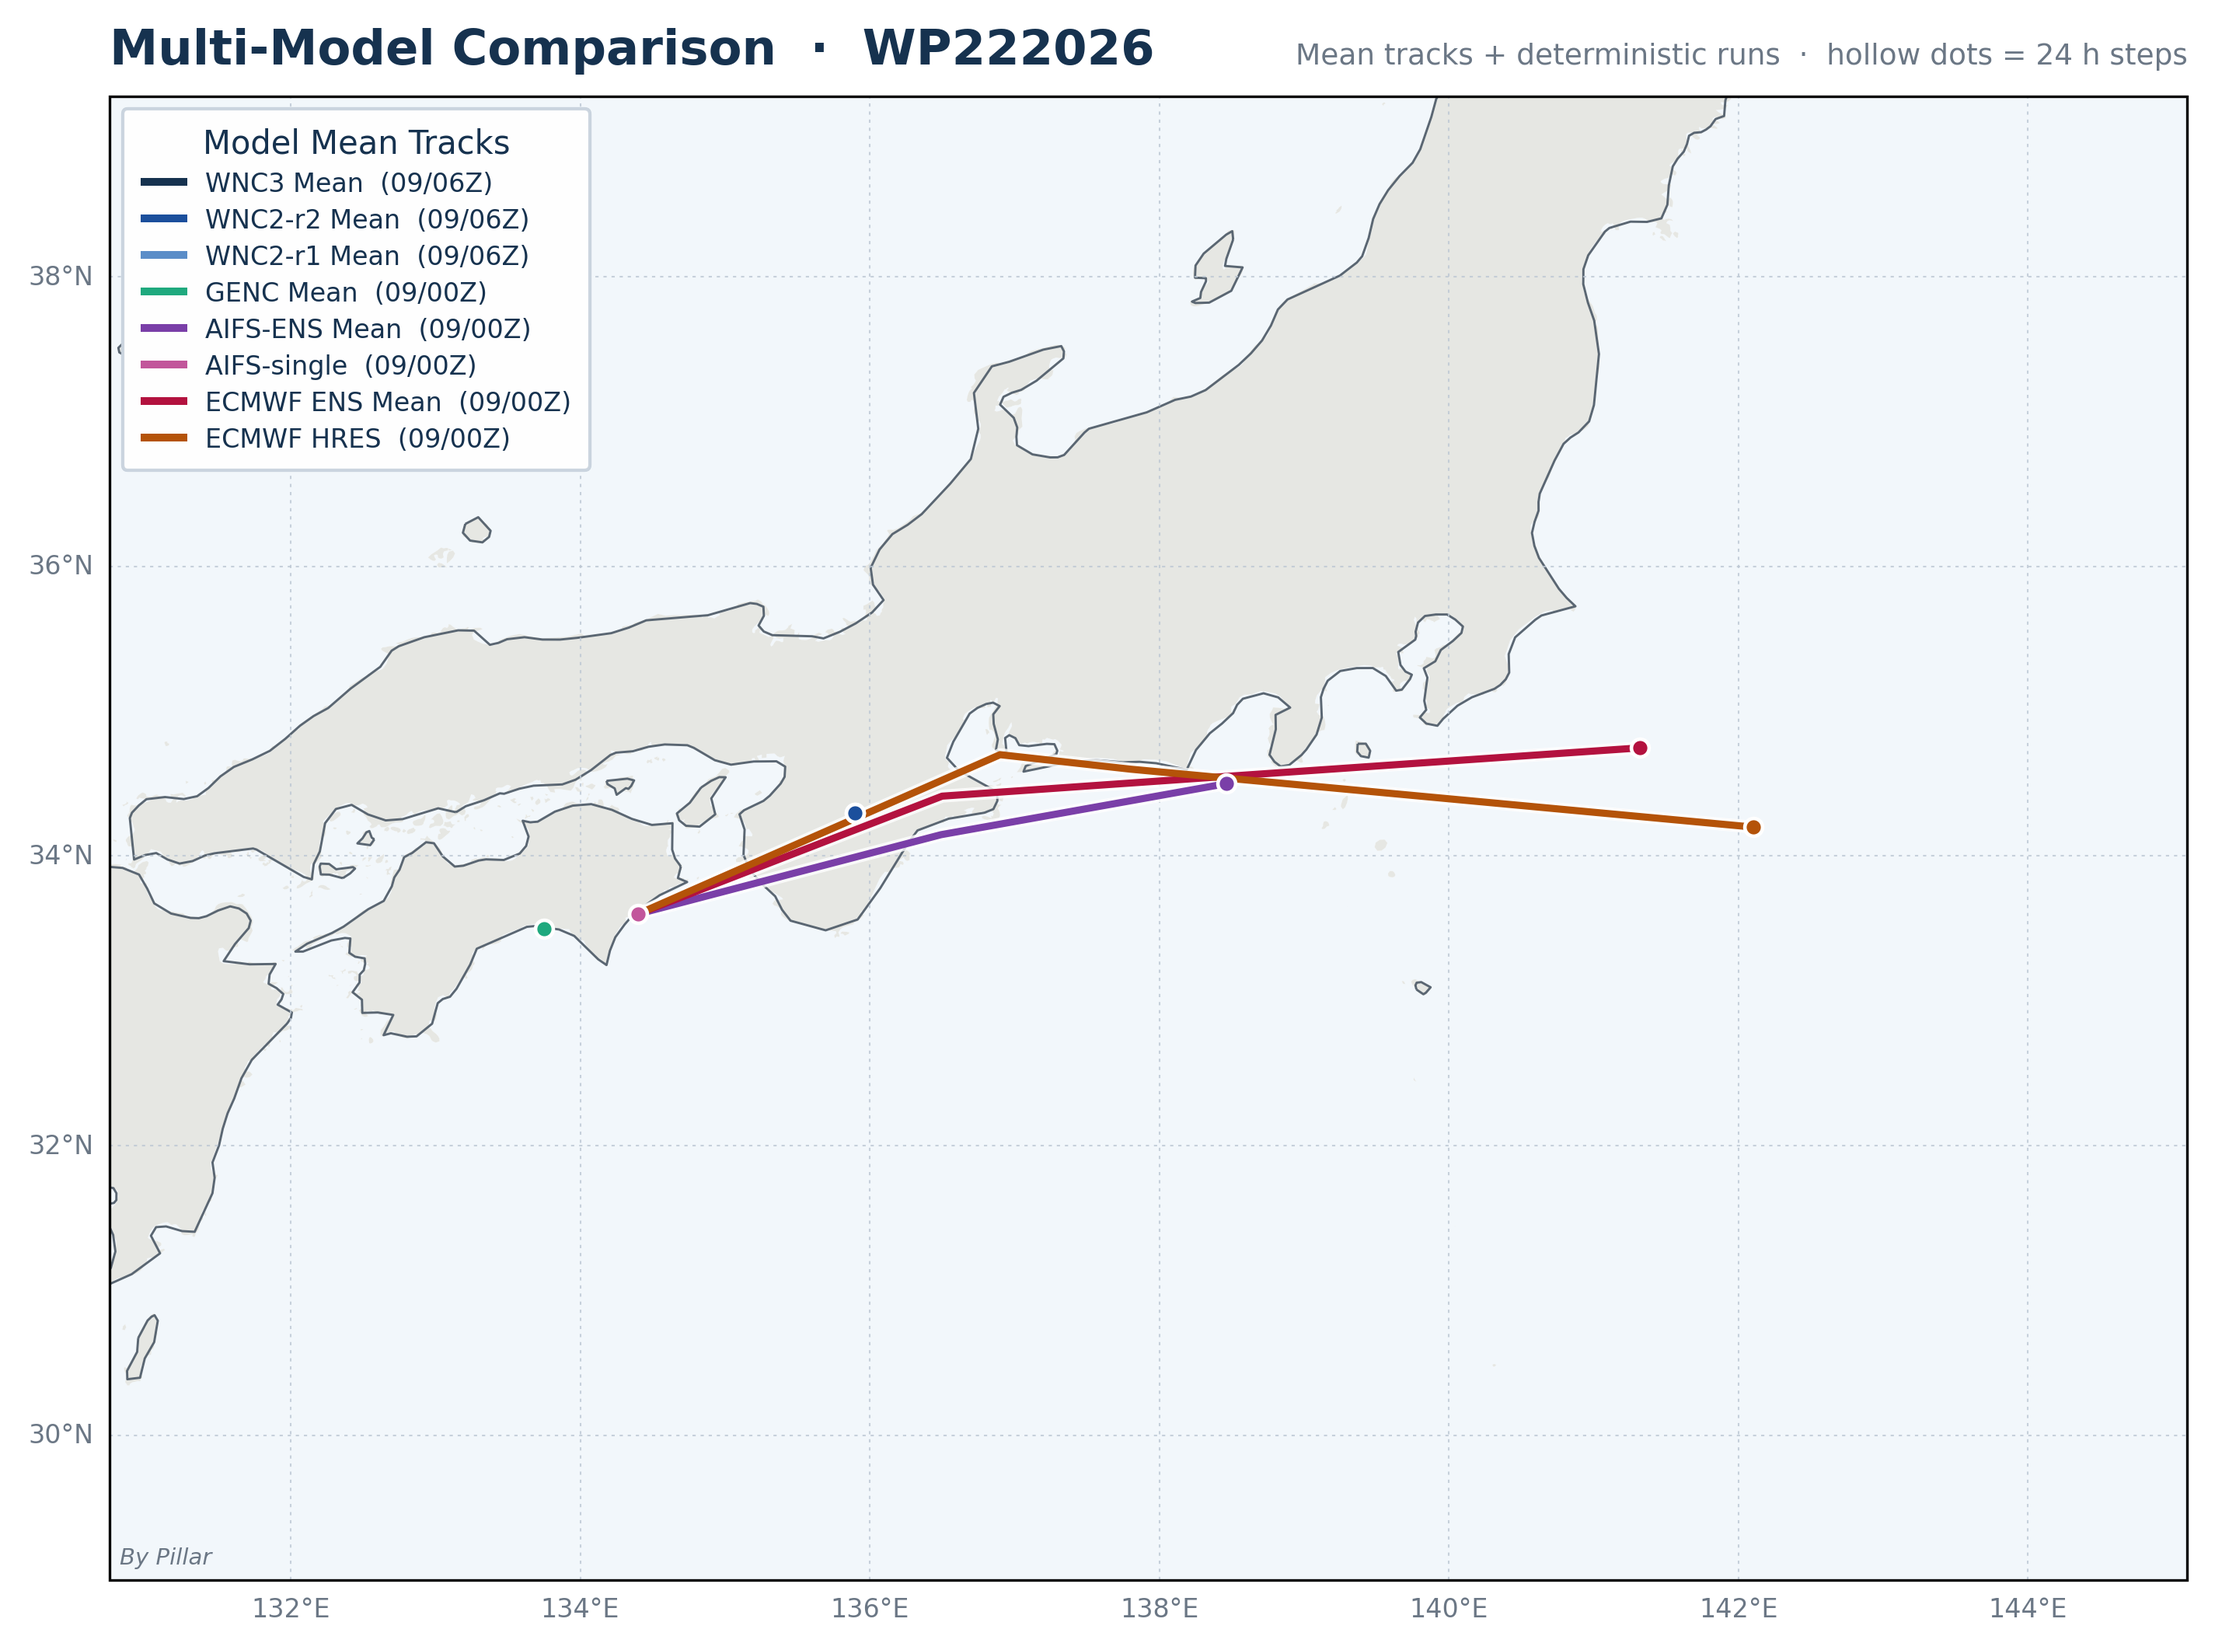
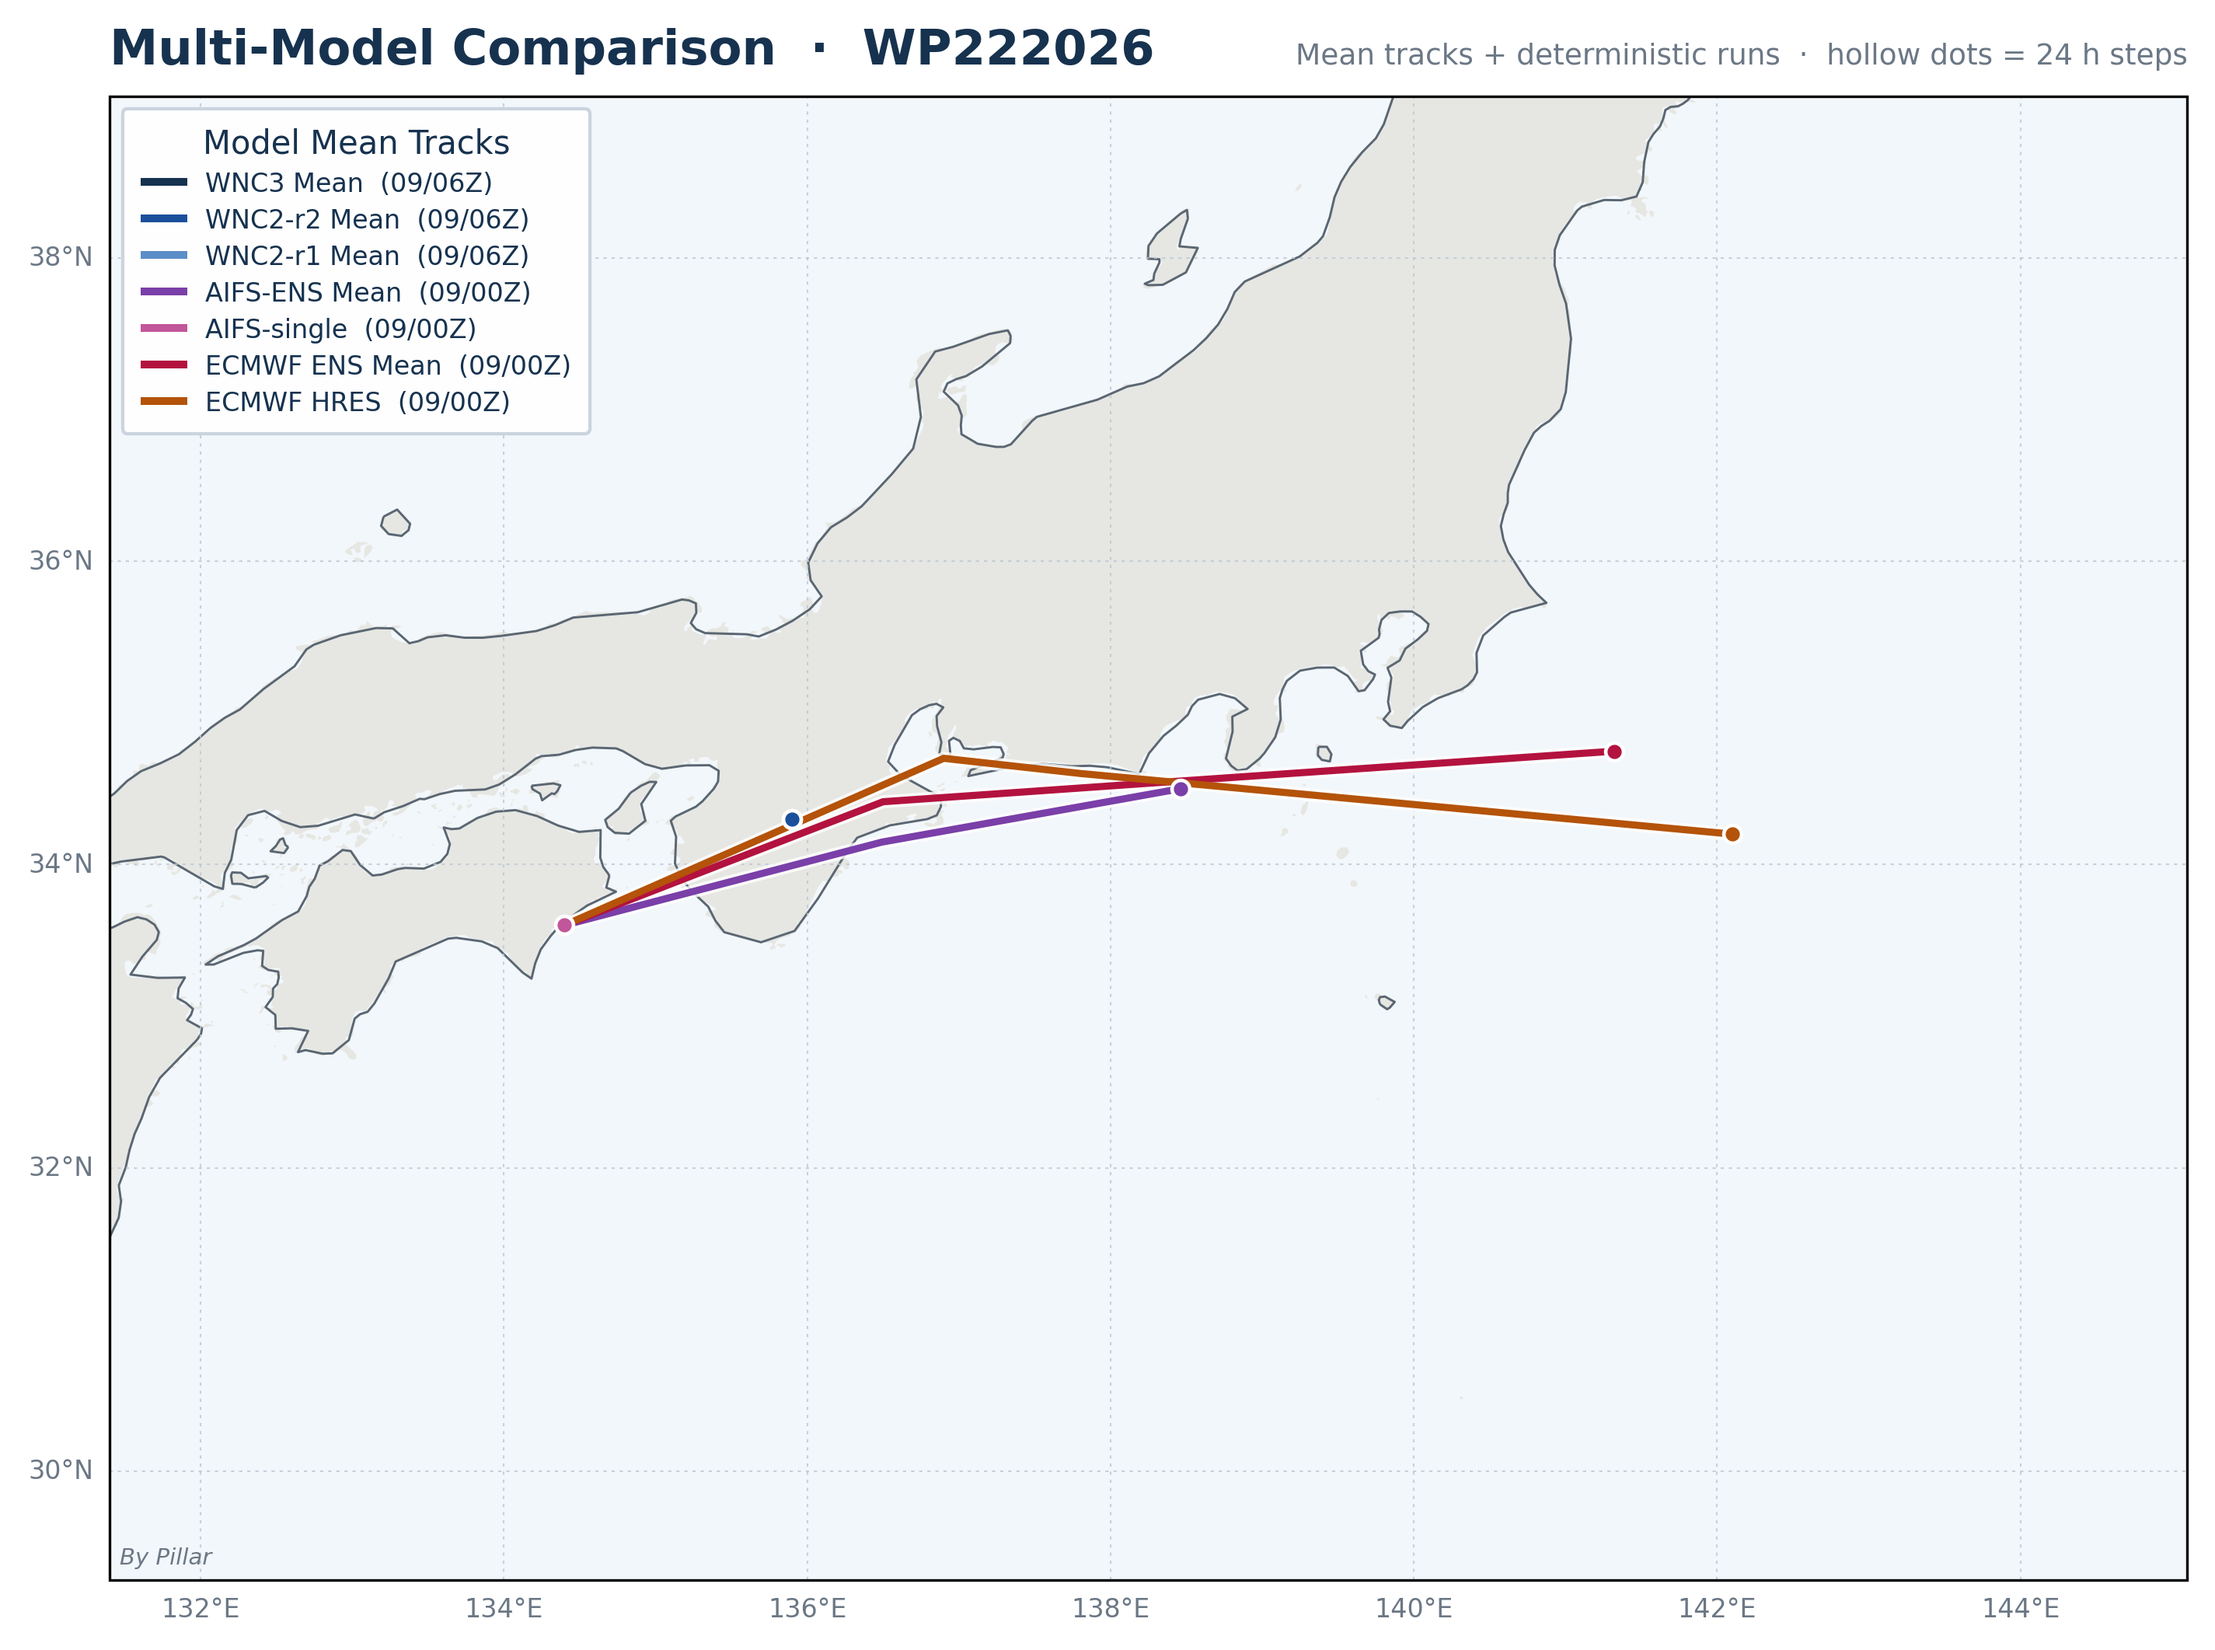
Auto update: 2026-09-09 13:30 UTC

diff --git a/docs/index.html b/docs/index.html
@@ -531,7 +531,7 @@
         <div class="header-actions">
             <div class="update-badge">
                 <span class="update-dot"></span>
-                <span data-i18n="header.updated">Updated</span>: 2026-09-09 21:01:39
+                <span data-i18n="header.updated">Updated</span>: 2026-09-09 21:30:44
             </div>
             <button class="theme-btn" onclick="toggleTheme()" id="theme-btn">🌙 Dark</button>
             <button class="theme-btn" onclick="toggleLang()" id="lang-btn"
@@ -741,7 +741,7 @@
                 </p>
             </div>
             
-<div class="model-tabs"><button class="model-tab-btn active" data-track="WP222026" data-model="WNC3" onclick="switchModelTab('WP222026', 'WNC3')">WNC3</button><button class="model-tab-btn" data-track="WP222026" data-model="WNC2-r2" onclick="switchModelTab('WP222026', 'WNC2-r2')">WNC2-r2</button><button class="model-tab-btn" data-track="WP222026" data-model="WNC2-r1" onclick="switchModelTab('WP222026', 'WNC2-r1')">WNC2-r1</button><button class="model-tab-btn" data-track="WP222026" data-model="GENC" onclick="switchModelTab('WP222026', 'GENC')">GENC</button><button class="model-tab-btn" data-track="WP222026" data-model="AIFS" onclick="switchModelTab('WP222026', 'AIFS')">AIFS</button><button class="model-tab-btn" data-track="WP222026" data-model="ECMWF" onclick="switchModelTab('WP222026', 'ECMWF')">ECMWF</button></div>
+<div class="model-tabs"><button class="model-tab-btn active" data-track="WP222026" data-model="WNC3" onclick="switchModelTab('WP222026', 'WNC3')">WNC3</button><button class="model-tab-btn" data-track="WP222026" data-model="WNC2-r2" onclick="switchModelTab('WP222026', 'WNC2-r2')">WNC2-r2</button><button class="model-tab-btn" data-track="WP222026" data-model="WNC2-r1" onclick="switchModelTab('WP222026', 'WNC2-r1')">WNC2-r1</button><button class="model-tab-btn" data-track="WP222026" data-model="AIFS" onclick="switchModelTab('WP222026', 'AIFS')">AIFS</button><button class="model-tab-btn" data-track="WP222026" data-model="ECMWF" onclick="switchModelTab('WP222026', 'ECMWF')">ECMWF</button></div>
 
             <div class="panel model-panel" data-track="WP222026" data-model="WNC3" id="anim-section-WP222026-WNC3">
                 <div class="panel-header">
@@ -854,45 +854,6 @@
                                    min="1" max="8" value="2" step="0.5"
                                    oninput="updateSpeed('WP222026-WNC2-r1', this.value)">
                             <span id="speed-val-WP222026-WNC2-r1" class="speed-value">2×</span>
-                            <span class="kbd-hint" data-i18n="kbd.hint"><kbd>Space</kbd> play/pause &nbsp;<kbd>←</kbd><kbd>→</kbd> seek</span>
-                        </div>
-                    </div>
-                </div>
-            </div>
-
-            <div class="panel model-panel" data-track="WP222026" data-model="GENC" style="display:none;" id="anim-section-WP222026-GENC">
-                <div class="panel-header">
-                    <span class="panel-icon">🎬</span>
-                    <span data-i18n="panel.anim" data-i18n-model="GENC">GENC Track Evolution Animation</span>
-                </div>
-                <div class="animation-player">
-                    <div class="frame-wrapper" onclick="openLightbox(document.getElementById('animation-frame-WP222026-GENC').src)">
-                        <img id="animation-frame-WP222026-GENC"
-                             src="animation_frames_GENC_WP222026/frame_0000.png"
-                             alt="Animation Frame"
-                             class="animation-frame"
-                             data-frames-dir="animation_frames_GENC_WP222026"
-                             data-all-frames='["frame_0000.png", "frame_0001.png", "frame_0002.png", "frame_0003.png", "frame_0004.png"]'>
-                        <div class="zoom-hint" data-i18n="zoom.hint">🔍 Click to enlarge</div>
-                    </div>
-                    <div class="player-controls">
-                        <div class="controls-row">
-                            <button class="control-btn" onclick="playAnimation('WP222026-GENC')" id="btn-play-WP222026-GENC" data-i18n="btn.play">▶ Play</button>
-                            <button class="control-btn secondary" onclick="pauseAnimation('WP222026-GENC')" data-i18n="btn.pause">⏸ Pause</button>
-                            <button class="control-btn secondary" onclick="resetAnimation('WP222026-GENC')" data-i18n="btn.reset">⟲ Reset</button>
-                            <div class="progress-bar-container">
-                                <input type="range" id="progress-WP222026-GENC" class="progress-slider"
-                                       min="0" max="4" value="0"
-                                       oninput="seekFrame('WP222026-GENC', this.value)">
-                                <span id="frame-counter-WP222026-GENC" class="frame-counter">1/5</span>
-                            </div>
-                        </div>
-                        <div class="controls-row speed-row">
-                            <span class="speed-label" data-i18n="label.speed">⚡ Speed:</span>
-                            <input type="range" id="speed-WP222026-GENC" class="speed-slider"
-                                   min="1" max="8" value="2" step="0.5"
-                                   oninput="updateSpeed('WP222026-GENC', this.value)">
-                            <span id="speed-val-WP222026-GENC" class="speed-value">2×</span>
                             <span class="kbd-hint" data-i18n="kbd.hint"><kbd>Space</kbd> play/pause &nbsp;<kbd>←</kbd><kbd>→</kbd> seek</span>
                         </div>
                     </div>
@@ -1016,18 +977,6 @@
                     </div>
                     <p class="map-note" data-i18n="note.ensemble" data-i18n-model="WNC2-r1">
                         WNC2-r1 &nbsp;·&nbsp; Gray lines = ensemble members &nbsp;·&nbsp;
-                        Navy line = ensemble mean &nbsp;·&nbsp; Shaded cone = track uncertainty &nbsp;·&nbsp;
-                        Dots = 6-hr intensity (filled ≥ 34 kt) &nbsp;·&nbsp; ★ = initial position
-                    </p>
-                </div>
-                <div class="model-panel" data-track="WP222026" data-model="GENC" style="display:none;">
-                    <div class="map-image-wrapper" onclick="openLightbox(this.querySelector('img').src)">
-                        <img src="GENC_WP222026_Forecast_Map.png" alt="WP222026 GENC Forecast Map" class="map-image"
-                             onload="this.classList.remove('loading')" onerror="this.classList.add('img-error')">
-                        <div class="zoom-hint" data-i18n="zoom.hint">🔍 Click to enlarge</div>
-                    </div>
-                    <p class="map-note" data-i18n="note.ensemble" data-i18n-model="GENC">
-                        GENC &nbsp;·&nbsp; Gray lines = ensemble members &nbsp;·&nbsp;
                         Navy line = ensemble mean &nbsp;·&nbsp; Shaded cone = track uncertainty &nbsp;·&nbsp;
                         Dots = 6-hr intensity (filled ≥ 34 kt) &nbsp;·&nbsp; ★ = initial position
                     </p>
